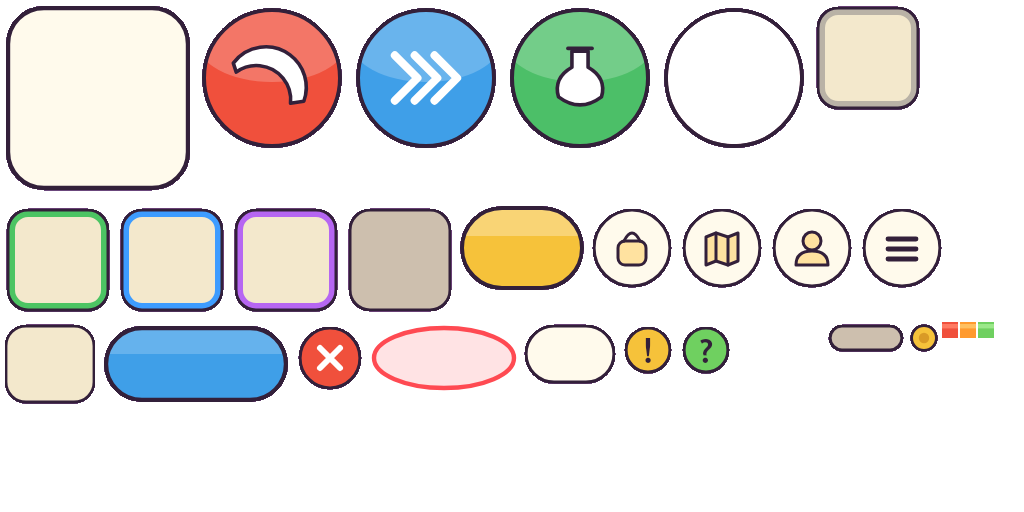
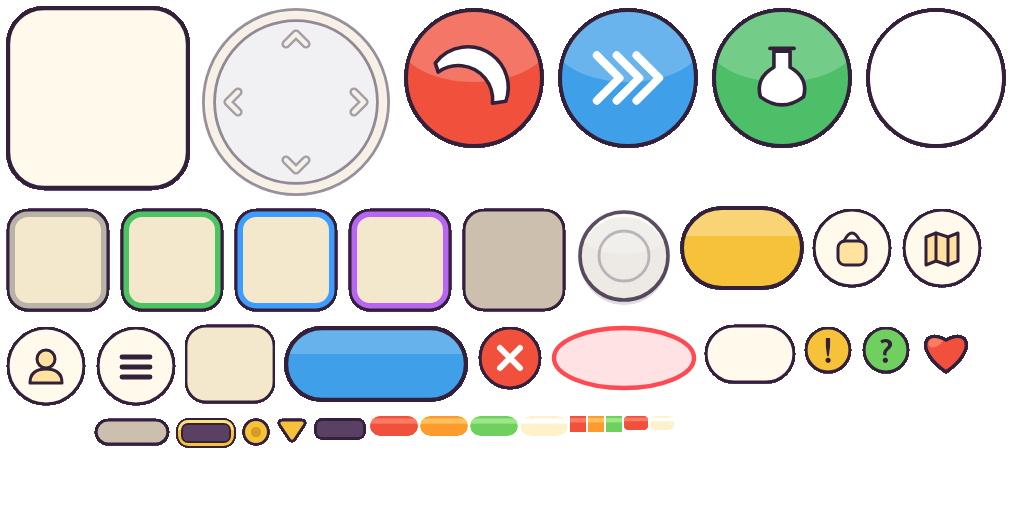
Art Director: a monster's bar, the stick, round fills and a heart (Leonard, AD)
Robin played chapter 1 (2026-11-20) and said, in Victor, GD's chat: "Health
etc on your hero and on mobs needs to be easier to see." "There should be a
moving stick." Victor, GD moved the pile to the middle at the bottom
(710cb4c) and asked for a bar over a monster's head and for the stick.

Looked at the real screen first (a test copy on this PC, a fresh game, not
Robin's save). The white stick and the gold edge on the monster's bar are all
but lost on sand; the flat fills show square corners outside my round wells
and cover the well's lower line (my first notes gave two heights); a blow's
number covers the bar.

Twelve new pieces in out/glass, 40 in all, the atlas still 1024 by 512:
- mob/well, mob/well-mine, mob/hp, mob/lost, mark/mine: a dark bar that reads
  on sand, grass, rock and sea; the one he fights with a gold rim between two
  dark lines, a fifth bigger, an arrow over it; a pale fill for what a blow
  just took.
- stick/ring, stick/knob: cream with the dark line, see-through.
- fill/hp, fill/rage, fill/xp, fill/lost: fills with round ends, as pills.
  The flat ones stay so nothing breaks.
- mark/heart: for the left end of his own health bar.

tools/scene.js draws the game's new layout (the pile at the bottom, the
Warrior 60 above the middle), and with --pile mine the pile as I would stack
it: his health the biggest thing with the heart on its end, the monster's bar
dark on its plate. The numbers are in out/glass/NOTES.md.
[…]

diff --git a/Art Director/tools/scene.js b/Art Director/tools/scene.js
@@ -1,45 +1,72 @@
 // scene.js: a judging picture drawn the way the game draws (Leonard, AD, 2026-11-20): a place's ground at double size, its
-// props and the figures sorted by where their feet stand, flat shadows, the glass on top at the game's own places
-// (the control test's hud.ts: bars top left, Cleave and Charge in their arc of radius 108 in the bottom right corner).
-// Everything comes from out/ as delivered, so if this picture is right the deliveries are right.
-//   node tools/scene.js <out.png> [--at 640,2040] [--zoom 1] [--no-glass]
+// props and the figures sorted by where their feet stand, flat shadows, the glass on top at the game's own places.
+// The glass is laid out as the game's hud.ts has it since Robin's first play (2026-11-20: "the buttons should be in the
+// middle at the bottom"; health "at the bottom"): level and money top left; bag, chart and hero top right; in the middle
+// at the bottom the pile: experience along the floor, Charge, Cleave and the potion in a row, rage and health over them,
+// who he fights over those. The Warrior stands 60 above the screen's middle. --pile mine draws the pile as Leonard, AD
+// would stack it. Everything comes from out/ as delivered, so if this picture is right the deliveries are right.
+//   node tools/scene.js <out.png> [--at 640,2040] [--no-glass] [--pile mine] [--stick 300,560] [--use "Open chest"] [--crop x,y,w,h,zoom]
 const P = require('./paint.js'); const D = require('./dress.js'); const fs = require('fs'); const path = require('path');
 const G = require('./glass.js');
 const W = P.JUDGE.w, H = P.JUDGE.h, FONT = 'Trebuchet MS';
 async function main() {
   const args = process.argv.slice(2), out = args[0], opt = k => { const i = args.indexOf('--' + k); return i >= 0 ? args[i + 1] : null; };
-  const at = (opt('at') || '640,2040').split(',').map(Number), S = 2, R = P.ROOT;
+  const at = (opt('at') || '640,2040').split(',').map(Number), S = 2, R = P.ROOT, mine = opt('pile') === 'mine';
   const place = JSON.parse(fs.readFileSync(path.join(R, 'out/island/place.json'), 'utf8')), ground = await P.loadImage(path.join(R, 'out/island/ground.png'));
   const A = await D.load(), isl = await D.atlas(path.join(R, 'out/island'), 'island'), crab = await D.atlas(path.join(R, 'out/sand-crab'), 'sand-crab'), glass = await D.atlas(path.join(R, 'out/glass'), 'glass');
   const loot = fs.existsSync(path.join(R, 'out/loot/loot.json')) ? await D.atlas(path.join(R, 'out/loot'), 'loot') : null;
   const cv = P.createCanvas(W * S, H * S), g = cv.getContext('2d'); g.scale(S, S); g.imageSmoothingEnabled = true; g.imageSmoothingQuality = 'high';
-  const cam = [at[0] - W / 2, at[1] - H / 2], sx = x => x - cam[0], sy = y => y - cam[1];
-  g.drawImage(ground, cam[0], cam[1], W, H, 0, 0, W, H);                                    // the ground: one pixel a unit, drawn at two
+  const cam = [at[0] - W / 2, at[1] - (H / 2 - 60)], sx = x => x - cam[0], sy = y => y - cam[1];
+  // the ground: one pixel a unit, drawn at two; below the place's foot the game draws out the picture's last row
+  const gh = Math.max(0, Math.min(H, ground.height - cam[1])); if (gh > 0) g.drawImage(ground, cam[0], cam[1], W, gh, 0, 0, W, gh); if (gh < H) g.drawImage(ground, cam[0], ground.height - 1, W, 1, 0, gh, W, H - gh);
   const shadow = (x, y, rx, ry) => { g.save(); g.globalAlpha = 0.24; g.fillStyle = '#5b4a82'; g.beginPath(); g.ellipse(sx(x) + rx * 0.2, sy(y) + 1, rx, ry, 0, 0, 7); g.fill(); g.restore(); };
   const sprite = (At, key, x, y) => { g.save(); g.translate(sx(x), sy(y)); g.scale(0.5, 0.5); D.pic(g, At, key); g.restore(); };
-  // who is where: the hero in the middle, a crab he has picked winding up, a second one idling
-  const hero = { x: at[0], y: at[1] }, c1 = { x: at[0] + 84, y: at[1] + 34 }, c2 = { x: at[0] - 96, y: at[1] + 96 }, drop = { x: at[0] + 70, y: at[1] - 70 }, coins = { x: at[0] - 30, y: at[1] + 150 };
+  // the glass's pieces: one as it is; a pill cut left and right, w long, k times its own height, its middle at y
+  const fr = key => glass.j.frames[key].frame, it = key => glass.j.items[key];
+  const piece = (key, x, y, k = 1) => { g.save(); g.translate(x, y); g.scale(0.5 * k, 0.5 * k); D.pic(g, glass, key); g.restore(); };
+  const pill = (key, x, y, w, k = 1) => { const f = fr(key), [l, , r] = it(key).slice, pw = Math.round(w / k * 2); if (pw < l + r) return; const t = P.createCanvas(pw, f.h), q = t.getContext('2d');   // put together at its own pixels, then drawn as one picture: no seams
+    q.drawImage(glass.im, f.x, f.y, l, f.h, 0, 0, l, f.h); q.drawImage(glass.im, f.x + l, f.y, f.w - l - r, f.h, l, 0, pw - l - r, f.h); q.drawImage(glass.im, f.x + f.w - r, f.y, r, f.h, pw - r, 0, r, f.h); g.drawImage(t, x, y - f.h / 4 * k, w, f.h / 2 * k); };
+  const txt = (t, x, y, s, c, o = {}) => P.label(g, t, x, y, s, c, { font: FONT, ...o });
+  const white = (t, x, y, s, o = {}) => txt(t, x, y, s, '#ffffff', { stroke: G.INK, strokeW: s > 13 ? 4 : 3, ...o });
+  // a bar of the glass: the well w long with its middle at y, a round-ended fill inside (and the pale part a blow just took)
+  const bar = (kind, x, y, w, part, k = 1, lost = 0) => { pill('bar/well', x, y, w, k); const full = w - 6 * k; if (lost > part) pill('fill/lost', x + 3 * k, y - k, full * lost, k); if (part > 0) pill('fill/' + kind, x + 3 * k, y - k, Math.max(10 * k, full * part), k); };
+  // the bar over a monster: w is the fill's whole length; the one he fights a fifth bigger, with the gold rim and the arrow
+  const mobBar = (x, y, w, part, lost, fought) => { const k = fought ? 1.2 : 1, key = fought ? 'mob/well-mine' : 'mob/well', inset = it(key).inset * k, full = w * k, x0 = x - full / 2; pill(key, x0 - inset, y, full + inset * 2, k); if (lost > part) pill('mob/lost', x0, y, full * lost, k); if (part > 0) pill('mob/hp', x0, y, Math.max(5 * k, full * part), k); if (fought) piece('mark/mine', x, y - 16); };
+  // who is where: the hero in the middle, a crab he fights winding up, a hurt one coming, a whole one idling
+  const hero = { x: at[0], y: at[1] }, c1 = { x: at[0] + 62, y: at[1] + 20, f: { action: 'attack1', facing: 'nw', i: 2 } }, c2 = { x: at[0] - 96, y: at[1] + 70, f: { action: 'move', facing: 'e', i: 1 } }, c3 = { x: at[0] + 120, y: at[1] - 150, f: { action: 'stand', facing: 's', i: 0 } }, drop = { x: at[0] + 70, y: at[1] - 70 }, coins = { x: at[0] - 30, y: at[1] + 150 };
   const things = [];
   for (const p of place.props) { const f = isl.j.frames[p.name]; if (!f) continue; if (sx(p.x) < -160 || sx(p.x) > W + 160 || sy(p.y) < -60 || sy(p.y) > H + 300) continue; things.push({ y: p.y, shadow: () => shadow(p.x, p.y, f.frame.w * 0.16, f.frame.w * 0.055), draw: () => sprite(isl, p.name, p.x, p.y) }); }
   things.push({ y: hero.y, shadow: () => shadow(hero.x, hero.y, 15, 6), draw: () => D.hero(g, A, { action: 'stand', facing: 'se', i: 0, cutlass: 'rusty', buckler: 'plank', hat: 'bandana' }, sx(hero.x), sy(hero.y), 0.5) });
-  things.push({ y: c1.y, shadow: () => shadow(c1.x, c1.y, 17, 7), draw: () => D.figure(g, crab, { action: 'attack1', facing: 'nw', i: 2 }, sx(c1.x), sy(c1.y), 0.5) });
-  things.push({ y: c2.y, shadow: () => shadow(c2.x, c2.y, 17, 7), draw: () => D.figure(g, crab, { action: 'stand', facing: 's', i: 0 }, sx(c2.x), sy(c2.y), 0.5) });
-  g.save(); g.translate(sx(c1.x), sy(c1.y) + 2); g.scale(0.5, 0.5); D.pic(g, glass, 'mark/target'); g.restore();        // the ring under the picked target
+  for (const c of [c1, c2, c3]) things.push({ y: c.y, shadow: () => shadow(c.x, c.y, 17, 7), draw: () => D.figure(g, crab, c.f, sx(c.x), sy(c.y), 0.5) });
+  piece('mark/target', sx(c1.x), sy(c1.y) + 2);                                                  // the ring under the one he fights
   if (loot) { for (const [key, q, rar] of [['gear', drop, 'rare'], ['coins', coins, null]]) { if (rar) { g.save(); g.translate(sx(q.x), sy(q.y)); g.scale(0.5, 0.5); D.pic(g, loot, 'ring/' + rar); g.restore(); } things.push({ y: q.y, shadow: () => shadow(q.x, q.y, 8, 3), draw: () => sprite(loot, key, q.x, q.y) }); } }
   things.sort((a, b) => a.y - b.y); for (const t of things) t.shadow(); for (const t of things) t.draw();
-  P.label(g, '14', sx(c1.x) + 4, sy(c1.y) - 44, 20, '#ffffff', { align: 'center', font: FONT, stroke: G.INK, strokeW: 4 });
+  // over the monsters: a bar on the one he fights and on any that is hurt, at one height for the kind (its standing picture's)
+  const o0 = D.frameOf(crab, 'stand', 's', 0).origin, top = (o0.y !== undefined ? o0.y : o0[1]) / 2;
+  mobBar(sx(c1.x), sy(c1.y) - top - 14, 44, 0.45, 0.62, true); mobBar(sx(c2.x), sy(c2.y) - top - 12, 44, 0.7, 0, false);
+  white('14', sx(c1.x) + 30, sy(c1.y) - top - 34, 20, { align: 'center' });                       // a blow's number rises beside the bar, not over it
   if (!args.includes('--no-glass')) {
-    const piece = (key, x, y) => { g.save(); g.translate(x, y); g.scale(0.5, 0.5); D.pic(g, glass, key); g.restore(); };
-    const slice = (key, x, y, w, h) => { const f = glass.j.frames[key].frame, it = glass.j.items[key], [l, t, r, b] = it.slice || [0, 0, 0, 0], k = 0.5, xs = [0, l, f.w - r, f.w], ys = [0, t, f.h - b, f.h], dx = [x, x + l * k, x + w - r * k, x + w], dy = [y, y + t * k, y + h - b * k, y + h]; for (let i = 0; i < 3; i++) for (let j = 0; j < 3; j++) { const sw = xs[i + 1] - xs[i], sh = ys[j + 1] - ys[j]; if (sw > 0 && sh > 0) g.drawImage(glass.im, f.x + xs[i], f.y + ys[j], sw, sh, dx[i], dy[j], dx[i + 1] - dx[i], dy[j + 1] - dy[j]); } };
-    const bar = (kind, x, y, w, part) => { slice('bar/well', x - 2, y - 2, w + 4, 18 * 0.5 * 2); const f = glass.j.frames['bar/' + kind].frame; g.save(); g.beginPath(); P.rr(g, x, y + 1, w, 10, 5); g.clip(); g.drawImage(glass.im, f.x, f.y, f.w, f.h, x, y + 1, w * part, 10); g.restore(); };
-    const txt = (t, x, y, s, c, o = {}) => P.label(g, t, x, y, s, c, { font: FONT, ...o });
-    piece('button/menu', 30, 30); bar('hp', 60, 12, 128, 0.72); bar('rage', 60, 30, 128, 0.45); txt('Lv 2', 62, 54, 12, '#ffffff', { stroke: G.INK, strokeW: 3.5 }); piece('mark/coin', 110, 54); txt('86', 121, 54.5, 12, '#ffffff', { stroke: G.INK, strokeW: 3.5 });
-    piece('button/bag', 296, 32); piece('button/chart', 340, 32); piece('button/hero', 384, 32);
-    slice('plate', W / 2 - 78, 100, 156, 34); txt('Sand Crab', W / 2 - 62, 111, 12.5, G.INK); txt('Lv 1', W / 2 + 62, 111, 11, '#8a6a7a', { align: 'right' }); bar('hp', W / 2 - 62, 118, 124, 0.56);
-    piece('skill/cleave', W - 108 * Math.cos(22 * Math.PI / 180), H - 24 - 108 * Math.sin(22 * Math.PI / 180)); piece('skill/charge', W - 108 * Math.cos(66 * Math.PI / 180), H - 24 - 108 * Math.sin(66 * Math.PI / 180)); piece('skill/potion', 236, 872);
-    bar('xp', 14, 893, 150, 0.38);
-    slice('plate', 12, 74, 132, 28); piece('mark/quest', 27, 89); txt('Sand crabs 7/30', 44, 88, 11, G.INK);
+    // the top: the menu, his level and money; bag, chart and hero
+    piece('button/menu', 30, 30); white('Lv 2', 62, 30, 16); piece('mark/coin', 122, 30); white('86', 134, 30, 16);
+    piece('button/bag', 286, 30); piece('button/chart', 334, 30); piece('button/hero', 382, 30);
+    // the pile in the middle at the bottom
+    const ROW_Y = H - 64, BAR_W = 200, BAR_X = (W - BAR_W) / 2, XP_Y = H - 14, RAGE_Y = ROW_Y - 54, HP_Y = RAGE_Y - 20, PLATE_Y = HP_Y - 38, USE_Y = PLATE_Y - 50;
+    const discs = () => { for (const [key, dx, r] of [['charge', -84, 36], ['cleave', 0, 36], ['potion', 78, 28]]) { const x = W / 2 + dx, y = ROW_Y + (36 - r); piece('skill/' + key, x, y, r * 2 / 76); if (key === 'potion') white('3', x + r * 0.55, y + r * 0.6, 13, { align: 'center' }); } };
+    if (!mine) {   // as the game stacks it (Victor, GD, 710cb4c), with the round fills
+      bar('xp', BAR_X, XP_Y, BAR_W, 0.38); discs(); bar('rage', BAR_X, RAGE_Y, BAR_W, 0.45); bar('hp', BAR_X, HP_Y, BAR_W, 0.87); white('87 / 100', W / 2, HP_Y, 12, { align: 'center' });
+      pill('plate', BAR_X, PLATE_Y, BAR_W); txt('Sand crab', W / 2 - 84, PLATE_Y - 5, 14, G.INK); txt('Lv 1', W / 2 + 84, PLATE_Y - 5, 12, '#7a6a80', { align: 'right' }); bar('hp', W / 2 - 88, PLATE_Y + 14, 176, 0.45, 1, 0.62);
+    } else {       // mine: his health the biggest thing with a heart on its end; the monster's bar dark, as over its head
+      bar('xp', BAR_X, XP_Y, BAR_W, 0.38, 0.72); discs();
+      bar('rage', BAR_X + 16, RAGE_Y + 3, BAR_W - 16, 0.45, 0.8); bar('hp', BAR_X, HP_Y - 2, BAR_W, 0.87, 1.3); piece('mark/heart', BAR_X + 3, HP_Y - 3, 1); white('87 / 100', W / 2 + 6, HP_Y - 3.5, 14, { align: 'center' });
+      pill('plate', BAR_X, PLATE_Y - 6, BAR_W); txt('Sand crab', W / 2 - 84, PLATE_Y - 11, 14, G.INK); txt('Lv 1', W / 2 + 84, PLATE_Y - 11, 12, '#7a6a80', { align: 'right' });
+      { const k = 1.2, key = 'mob/well-mine', inset = it(key).inset * k, full = 172, x0 = W / 2 - full / 2, y = PLATE_Y + 9; pill(key, x0 - inset, y, full + inset * 2, k); pill('mob/lost', x0, y, full * 0.62, k); pill('mob/hp', x0, y, full * 0.45, k); }
+    }
+    const use = opt('use'); if (use) { pill('button/context', W / 2 - 78, USE_Y - (mine ? 6 : 0), 156); txt(use, W / 2, USE_Y - 3 - (mine ? 6 : 0), 17, G.INK, { align: 'center' }); }
+    const stick = opt('stick'); if (stick) { const [x, y] = stick.split(',').map(Number), a = -0.6; piece('stick/ring', x, y); piece('stick/knob', x + Math.cos(a) * 30, y + Math.sin(a) * 30); }
   }
-  P.save(cv, out); console.log('wrote', out);
+  const crop = opt('crop');
+  if (crop) { const [x, y, w, h, z] = crop.split(',').map(Number), c2v = P.createCanvas(w * z, h * z), g2 = c2v.getContext('2d'); g2.imageSmoothingEnabled = true; g2.imageSmoothingQuality = 'high'; g2.drawImage(cv, x * S, y * S, w * S, h * S, 0, 0, w * z, h * z); P.save(c2v, out); }
+  else P.save(cv, out);
+  console.log('wrote', out);
 }
 main();

diff --git a/Art Director/tools/glass.js b/Art Director/tools/glass.js
@@ -4,7 +4,7 @@
 // how in its data: slice [left, top, right, bottom] in file pixels (nine-slice), or fill: true (stretch it whole).
 //   node tools/glass.js        then  node tools/packset.js glass work/glass/render out/glass
 const P = require('./paint.js'); const fs = require('fs'); const path = require('path');
-const INK = '#33203a', CREAM = '#fffaec', CREAM2 = '#f3e8cc', WELL = '#cdbfae', SH = 'rgba(51,32,58,0.30)';
+const INK = '#33203a', CREAM = '#fffaec', CREAM2 = '#f3e8cc', WELL = '#cdbfae', PLUM = '#5a4062', SH = 'rgba(51,32,58,0.30)';
 const RARITY = { common: '#b9b2a6', uncommon: '#4cc463', rare: '#3d9cff', epic: '#b666f2' };
 const COL = { hp: '#f0503c', hpHi: '#ff7a62', rage: '#ff9a2e', rageHi: '#ffc060', xp: '#6fd060', xpHi: '#9be88a', cleave: '#f0503c', charge: '#3f9fe8', potion: '#4cbf68', gold: '#f6c23a' };
 const S = 2, OUT = path.join(P.ROOT, 'work/glass/render'), items = [];
@@ -26,8 +26,8 @@ const ICON = {
 function build() {
   fs.mkdirSync(OUT, { recursive: true });
   // bars: a well that stretches, and three fills that stretch whole
-  piece('bar/well', 40, 18, (g) => { panel(g, rr(2, 2, 36, 12, 6), WELL); }, { slice: [16, 0, 16, 0], inner: [6, 6, 6, 6], note: 'the fill goes inside, 2 design units in from each side, 8 tall' });
-  for (const k of ['hp', 'rage', 'xp']) piece('bar/' + k, 8, 8, (g) => { g.fillStyle = COL[k]; g.fillRect(0, 0, 8, 8); g.fillStyle = COL[k + 'Hi']; g.fillRect(0, 1, 8, 2.2); }, { fill: true });
+  piece('bar/well', 40, 18, (g) => { panel(g, rr(2, 2, 36, 12, 6), WELL); }, { slice: [16, 0, 16, 0], note: 'a fill/hp, fill/rage or fill/xp pill goes inside: see its own note' });
+  for (const k of ['hp', 'rage', 'xp']) piece('bar/' + k, 8, 8, (g) => { g.fillStyle = COL[k]; g.fillRect(0, 0, 8, 8); g.fillStyle = COL[k + 'Hi']; g.fillRect(0, 1, 8, 2.2); }, { fill: true, note: 'the first, flat fill: its square corners show outside the round well; fill/* takes its place' });
   // the skill discs: 68 across (the game's size), each its own colour and sign
   for (const [k, sc] of [['cleave', 1.1], ['charge', 1.0], ['potion', 0.95]]) piece('skill/' + k, 76, 78, (g) => {
     panel(g, disc(38, 38, 34), COL[k], { lw: 2, shadow: 3, hi: gg => { gg.fillStyle = 'rgba(255,255,255,0.22)'; gg.beginPath(); gg.ellipse(38, 19, 38, 21, 0, 0, 7); gg.fill(); } });
@@ -50,6 +50,26 @@ function build() {
   for (const [k, ch] of [['quest', '!'], ['done', '?']]) piece('mark/' + k, 28, 34, (g) => { panel(g, disc(14, 14, 11), k === 'quest' ? COL.gold : '#6fd060', { lw: 1.6 }); P.label(g, ch, 14, 14.5, 17, INK, { align: 'center', font: 'Trebuchet MS' }); });
   piece('mark/target', 76, 36, (g) => { g.beginPath(); g.ellipse(38, 18, 35, 15, 0, 0, 7); g.fillStyle = 'rgba(255,74,82,0.16)'; g.fill(); g.lineWidth = 2.2; g.strokeStyle = '#ff4a52'; g.stroke(); }, { soft: true, note: 'under the picked target, at its feet' });
   piece('mark/tap', 44, 24, (g) => { g.beginPath(); g.ellipse(22, 12, 19, 9, 0, 0, 7); g.lineWidth = 2.2; g.strokeStyle = '#ffffff'; g.stroke(); }, { soft: true, note: 'where a tap landed' });
+  // Over a monster's head (Robin, 2026-11-20: health "on mobs needs to be easier to see"): a dark well, so it reads on sand,
+  // grass and rock alike, with the same red inside. The one he fights has a gold rim between two dark lines (gold alone is
+  // lost on sand) and an arrow over it. The pale fill is what a blow just took: it lags and then shrinks.
+  piece('mob/well', 28, 13, (g) => { rr(1, 1, 26, 11, 4.2)(g); g.fillStyle = INK; g.fill(); rr(2.5, 2.5, 23, 8, 2.2)(g); g.fillStyle = PLUM; g.fill(); }, { slice: [12, 0, 12, 0], inset: 3, fill: 7, note: 'the fill goes inside, 3 design units in from each side, 7 tall' });
+  piece('mob/well-mine', 32, 17, (g) => { rr(1, 1, 30, 15, 6.2)(g); g.fillStyle = INK; g.fill(); rr(2, 2, 28, 13, 5.2)(g); g.fillStyle = COL.gold; g.fill(); g.save(); g.beginPath(); g.rect(0, 0, 32, 7); g.clip(); rr(2, 2, 28, 13, 5.2)(g); g.fillStyle = '#ffe07a'; g.fill(); g.restore(); rr(3.5, 3.5, 25, 10, 3.6)(g); g.fillStyle = INK; g.fill(); rr(4.5, 4.5, 23, 8, 2.2)(g); g.fillStyle = PLUM; g.fill(); }, { slice: [16, 0, 16, 0], inset: 5, fill: 7, note: 'the well of the one he fights: the fill goes 5 design units in from each side, 7 tall; draw this whole bar a fifth bigger than the others' });
+  // Fills with round ends (Leonard, AD, 2026-11-20: the flat fills showed square corners outside the round wells on the real
+  // screen). A fill is a pill cut left and right: make it as long as the bar's part, its ends stay round. `fill/*` fit
+  // `bar/well`, `mob/*` fit the two wells over a monster. The pale one is what a blow just took: it lags and then shrinks.
+  const FILL = { hp: [COL.hp, COL.hpHi], rage: [COL.rage, COL.rageHi], xp: [COL.xp, COL.xpHi], lost: ['#fff1c9', '#ffffff'] };
+  const fillPill = (w, h, r, [col, hi]) => (g) => { rr(0, 0, w, h, r)(g); g.fillStyle = col; g.fill(); g.save(); rr(0, 0, w, h, r)(g); g.clip(); g.fillStyle = hi; g.fillRect(0, h * 0.12, w, h * 0.26); g.restore(); };
+  for (const k of ['hp', 'rage', 'xp', 'lost']) piece('fill/' + k, 24, 10, fillPill(24, 10, 5, FILL[k]), { slice: [10, 0, 10, 0], x: 3, y: -1, note: 'inside bar/well: its left end 3 design units in from the well\'s, its middle 1 unit above the well\'s middle (the well has a shadow under it); as long as the part, the whole is the well\'s length less 6; hide it at nothing' });
+  for (const k of ['hp', 'lost']) piece('mob/' + k, 12, 7, fillPill(12, 7, 2, FILL[k]), { slice: [5, 0, 5, 0], note: 'inside mob/well (3 units in from each end) or mob/well-mine (5 in), on the well\'s middle' });
+  piece('mark/mine', 18, 16, (g) => { const tri = gg => { gg.beginPath(); gg.moveTo(4, 3.5); gg.lineTo(14, 3.5); gg.lineTo(9, 11); gg.closePath(); }; g.lineJoin = 'round'; g.save(); g.translate(0, 1.6); tri(g); g.lineWidth = 3.4; g.strokeStyle = SH; g.stroke(); g.restore(); tri(g); g.lineWidth = 4.6; g.strokeStyle = INK; g.stroke(); tri(g); g.lineWidth = 1.6; g.strokeStyle = COL.gold; g.stroke(); g.fillStyle = COL.gold; g.fill(); }, { note: 'an arrow over the bar of the one he fights; let it bob 2 units, once a second' });
+  // A heart for the left end of his own health bar, so his bar is never taken for the monster's.
+  piece('mark/heart', 30, 30, (g) => { const heart = gg => { gg.beginPath(); gg.moveTo(15, 25); gg.bezierCurveTo(-1, 14, 4, 2.5, 15, 9); gg.bezierCurveTo(26, 2.5, 31, 14, 15, 25); gg.closePath(); }; panel(g, heart, COL.hp, { lw: 1.8, shadow: 2, hi: gg => { gg.fillStyle = COL.hpHi; gg.beginPath(); gg.ellipse(10, 9.5, 4.2, 2.6, -0.6, 0, 7); gg.fill(); } }); });
+  // The stick (Robin, 2026-11-20: "a moving stick"): a ring where the thumb came down and a knob under the thumb. Cream with
+  // the dark line, see-through: the ring's inside is all but clear, so a crab under it is still seen.
+  piece('stick/ring', 100, 100, (g) => { const c = 50; g.beginPath(); g.arc(c, c, 44, 0, 7); g.fillStyle = 'rgba(51,32,58,0.07)'; g.fill(); g.beginPath(); g.arc(c, c, 43.5, 0, 7); g.lineWidth = 7; g.strokeStyle = 'rgba(51,32,58,0.5)'; g.stroke(); g.beginPath(); g.arc(c, c, 43.5, 0, 7); g.lineWidth = 4.2; g.strokeStyle = 'rgba(255,250,236,0.92)'; g.stroke();
+    for (let k = 0; k < 4; k++) { g.save(); g.translate(c, c); g.rotate(k * Math.PI / 2); const v = () => { g.beginPath(); g.moveTo(-5, -29); g.lineTo(0, -34); g.lineTo(5, -29); }; v(); g.lineWidth = 4.6; g.strokeStyle = 'rgba(51,32,58,0.4)'; g.stroke(); v(); g.lineWidth = 2.2; g.strokeStyle = 'rgba(255,250,236,0.9)'; g.stroke(); g.restore(); } }, { soft: true, radius: 46, note: 'where the thumb came down; its see-through is in the picture, draw it at full strength' });
+  piece('stick/knob', 52, 52, (g) => { disc(26, 28.5, 22)(g); g.fillStyle = 'rgba(51,32,58,0.16)'; g.fill(); disc(26, 26, 22)(g); g.fillStyle = 'rgba(255,250,236,0.46)'; g.fill(); g.save(); disc(26, 26, 22)(g); g.clip(); g.fillStyle = 'rgba(255,255,255,0.22)'; g.beginPath(); g.ellipse(26, 13, 24, 12, 0, 0, 7); g.fill(); g.restore(); disc(26, 26, 22)(g); g.lineWidth = 1.8; g.strokeStyle = 'rgba(51,32,58,0.8)'; g.stroke(); g.beginPath(); g.arc(26, 26, 12.5, 0, 7); g.lineWidth = 1.4; g.strokeStyle = 'rgba(51,32,58,0.28)'; g.stroke(); }, { soft: true, radius: 22, note: 'under the thumb' });
   fs.writeFileSync(path.join(OUT, 'meta.json'), JSON.stringify({ px: S, items, rarity: RARITY, colours: COL, ink: INK, cream: CREAM }, null, 1)); console.log('drew', items.length, 'pieces of glass');
 }
 if (require.main === module) build();

diff --git a/Art Director/out/glass/NOTES.md b/Art Director/out/glass/NOTES.md
@@ -1,44 +1,97 @@
 # glass  (Leonard, AD, 2026-11-20)
 
-**What it is:** the glass over the game, as pieces: cream panels with the figures' dark line and a small hard shadow,
-round buttons, strong flat colour only where a thumb goes. Laid out as Robin picked it (2026-11-20): skills in an arc in
-the bottom corner; bag, chart and character as small buttons at the top.
+**What it is:** the glass over the game, as pieces: cream panels with the figures' dark line, round buttons, strong flat
+colour only where a thumb goes. 40 pieces in one atlas.
 
-**The numbers:** `glass.png` 1024 by 512, 66 KB, 28 pieces at two pixels a unit. Sizes in design units:
+**What changed and why:** Robin played chapter 1 (2026-11-20) and said: "Health etc on your hero and on mobs needs to be
+easier to see." "There should be a moving stick." Victor, GD moved the pile to the middle at the bottom and asked for a
+bar over a monster's head and for the stick. Twelve new pieces; the 28 earlier ones are as they were. All of it is mine.
+
+- **A monster's bar:** a dark well (`mob/well`), so it reads on sand, grass, rock and sea alike, with the same red
+  inside (`mob/hp`). The one he fights has a gold rim between two dark lines (`mob/well-mine`; gold alone is lost on
+  sand, as the gold edge in the game is now) and an arrow over it (`mark/mine`). A pale fill (`mob/lost`) shows what a
+  blow just took.
+- **The stick:** `stick/ring` and `stick/knob`, cream with the dark line, see-through. The white ring in the game now is
+  all but lost on sand.
+- **Fills with round ends** (`fill/hp`, `fill/rage`, `fill/xp`, `fill/lost`): on the real screen the flat fills showed
+  square corners outside my round wells and covered the well's lower line. That was my data: the first notes gave two
+  different heights. The flat ones (`bar/hp`, `bar/rage`, `bar/xp`) stay in the atlas so nothing breaks.
+- **A heart** (`mark/heart`) for the left end of his own health bar, so his bar is never taken for the monster's.
+
+**The numbers:** `glass.png` 1024 by 512 as before, 100 KB (was 67), 2 MB decoded, two pixels a unit. Sizes in design
+units; in `glass.json` each piece's `w` and `h` are file pixels, and its origin is its middle.
 
 | Piece | Size | How it stretches |
 | --- | --- | --- |
-| `bar/well` | 40 by 18 | `slice` left and right 16 file px; the fill sits 2 units in, 10 tall |
-| `bar/hp`, `bar/rage`, `bar/xp` | 8 by 8 | stretch whole (`fill`), cropped to the bar's part |
+| `bar/well` | 40 by 18 | a pill: `slice` left and right 16 file px |
+| `fill/hp`, `fill/rage`, `fill/xp`, `fill/lost` | 24 by 10 | a pill: `slice` 10 file px. Inside `bar/well` |
+| `mob/well` | 28 by 13 | a pill: `slice` 12 file px |
+| `mob/well-mine` | 32 by 17 | a pill: `slice` 16 file px |
+| `mob/hp`, `mob/lost` | 12 by 7 | a pill: `slice` 5 file px. Inside the two wells above |
+| `mark/mine` | 18 by 16 | none: the arrow over the bar of the one he fights |
+| `mark/heart` | 30 by 30 | none |
+| `stick/ring` | 100 by 100, the ring's radius 46 | none; its see-through is in the picture |
+| `stick/knob` | 52 by 52, radius 22 | none; its see-through is in the picture |
 | `skill/cleave`, `skill/charge`, `skill/potion`, `skill/empty` | a disc of 68 in 76 by 78 | none; draw the cooldown wedge and the number over it |
 | `button/bag`, `button/chart`, `button/hero`, `button/menu` | a disc of 38 in 44 by 46 | none |
 | `button/close` | 36 by 38 | none |
-| `button/context` | 64 by 48 | `slice` 44 left and right: for "Open", "Shop", "Sail", dark words 18 bold |
-| `plate` | 48 by 34 | `slice` 32 left and right: the target's name and bar, a quest line |
+| `button/context` | 64 by 48 | a pill: `slice` 44: "Open", "Shop", "Sail", dark words 18 bold |
+| `plate` | 48 by 34 | a pill: `slice` 32: the target's name, a quest line |
 | `row` | 48 by 44 | `slice` 24 all round |
 | `panel` | 96 by 100 | `slice` 44, 44, 44, 52 (left, top, right, bottom, file px) |
-| `panel/title` | 96 by 44 | `slice` 44 left and right; white words 18 bold; it sits on the panel's top edge |
+| `panel/title` | 96 by 44 | a pill: `slice` 44; white words 18 bold; it sits on the panel's top edge |
 | `slot/common` ... `slot/epic`, `slot/empty` | 56 by 58 | none; an icon of 48 in its middle |
 | `mark/coin`, `mark/quest` (!), `mark/done` (?) | 16, 28 | none |
 | `mark/target`, `mark/tap` | 76 by 36, 44 by 24 | none; under the picked target, and where a tap landed |
+| `bar/hp`, `bar/rage`, `bar/xp` | 8 by 8 | the first, flat fills; `fill/*` takes their place |
 
-Each piece's `slice`, `fill` and `note` are in `glass.json` under `items`. Origins are the middles.
+**How the game uses it:** copy the folder. `tools\scene.js` draws all of this from the folder and is the reference.
 
-**The colours:** line `#33203a`, cream `#fffaec` and `#f3e8cc`, wells `#cdbfae`; health `#f0503c`, rage `#ff9a2e`,
-experience `#6fd060`; Cleave `#f0503c`, Charge `#3f9fe8`, potion `#4cbf68`; gold `#f6c23a`. Words on the field (a hit's
-number, the level) are white with the dark line round them, 4 units thick.
+- **A fill is a pill, made as long as the bar's part** (a nine-slice whose width is set, not a picture scaled): its ends
+  stay round. Hide it at nothing; while there is any, not shorter than its two ends (10 units for `fill/*`, 5 for
+  `mob/*`).
+- **His own bars:** the fill's left end is 3 units in from the well's left edge, as now. Its middle is **1 unit above
+  the well's middle** (the well's picture has room for a shadow under it), and it is **10 tall**, not 12. Whole, it is
+  the well's length less 6.
+- **Over a monster:** for a fill `w` long (44 or more), `mob/well` is `w + 6` long and the fill starts 3 in, on the
+  well's middle. For the one he fights: `mob/well-mine` is `w + 10` long, the fill starts 5 in, and the whole bar is
+  drawn **a fifth bigger** (well and fill alike). `mark/mine` sits 16 above that bar's middle; let it bob 2 units, once
+  a second, if you like.
+- **`mob/lost` and `fill/lost`** go under the red, as long as the health was before the blow, and shrink to the red a
+  moment later (I would hold 200 ms, then shrink over 300; how it feels is Robin's).
+- **The stick:** `stick/ring` where the thumb came down, `stick/knob` under the thumb, both at full strength (no alpha
+  on top: it is in the pictures). Their middles are their origins.
+- **The heart:** its middle 3 units in from the left end of his health bar and 1 above the bar's middle.
+
+**Three things seen on the real screen (Victor, GD's to take or leave):**
+1. The bar over a monster rides on the top of the picture now shown, so it jumps as the crab moves its claws. One
+   height for each kind is steadier: I use the top of its first `stand` frame, and put the bar's middle 12 above it
+   (14 for the one he fights). The raised claw then passes behind the bar for a moment.
+2. A blow's number starts on top of the bar and hides it. Beside the bar, or starting above it, both stay readable.
+3. The pile has two red bars of nearly the same length, one over the other: his and the monster's. Mine instead, in
+   `look-bars.jpg` and `look-screen.jpg` (the middles, of 412 by 915): experience 200 long at y 901, drawn at 0.72 of
+   its size; the discs as they are; rage 184 long from x 122, y 800, at 0.8 of its size; his health 200 long at y 775,
+   at 1.3 of its size, the heart on its left end, the numbers 14 bold; the plate at y 733 with the monster's bar on its
+   foot as `mob/well-mine` (the fill 172 long, a fifth bigger, y 748): the dark bar is the monster's, on the plate as
+   over its head. The button for the thing he stands by at y 683.
+
+**The colours:** line `#33203a`, cream `#fffaec` and `#f3e8cc`, wells `#cdbfae`, the monster's well `#5a4062`; health
+`#f0503c`, rage `#ff9a2e`, experience `#6fd060`, what a blow took `#fff1c9`; Cleave `#f0503c`, Charge `#3f9fe8`, potion
+`#4cbf68`; gold `#f6c23a`. Words on the field (a hit's number, the level) are white with the dark line round them.
 
 **The font:** the pictures use Trebuchet MS bold as a stand-in. I would pick a round, heavy face to go with the look
 (Fredoka or Baloo 2, both free under the Open Font Licence). That is a file to add to the game and to tell Robin about,
 so I have not fetched one.
 
-**How the game uses it:** copy the folder. The places are yours (`hud.ts`); `tools\scene.js` draws them as the control
-test has them, with the top right taken by bag, chart and hero.
+**Open:** the whole design is for Robin to judge. The small hard shadow the tool draws under each piece is cut away by
+the packer's hard edge, so the game has shown the glass without it since the first drop; it comes back with one flag
+(`--soft`) if it is wanted. The potion's disc is green while the health it fills is red.
 
-**Open:** the whole design is for Robin to judge. The potion disc's place (left of Cleave) is a guess.
-
-**Not tested:** not in the game; nothing pressed.
+**Not tested:** the new pieces are not in the game. `look-bars.jpg` has the real screen on the left (a test copy of the
+game on this PC, a fresh game, not Robin's save) and `tools\scene.js` on the right. Nothing pressed; the stick not felt
+under a thumb; the bars not seen moving.
 
 **Origin and licence:** drawn here by `tools\glass.js`. Nothing from outside.
 
-**Where to see it:** `look.jpg`; `out\scene\beach.png`.
+**Where to see it:** `look-bars.jpg` (now and new, side by side), `look-screen.jpg` (the whole screen), `look-grounds.jpg`
+(the bars and the stick on sand, grass, rock and sea), `look.jpg` (every piece).

diff --git a/Art Director/docs/inventory.md b/Art Director/docs/inventory.md
@@ -24,7 +24,7 @@ which drop is the game's `docs\state\art.md`). **None of it has been seen by Rob
 | 5 | Loot on the ground and the rarity effect in four colours | in the game: `out\loot\` |
 | 6 | The chest: closed, opening, open | in the game: in `out\island\` as `chest/...` |
 | 7 | The harbour's kit: ground, houses, a stall, the shopkeeper, townsfolk | in the game: `out\harbour\` |
-| 8 | The glass | in the game: `out\glass\` (a first set; more pieces as the game asks) |
+| 8 | The glass | in the game: `out\glass\` (the first 28 pieces). Twelve more since Robin's first play (a monster's bar, the stick, fills with round ends, a heart): built, with Victor, GD |
 | 9 | The sea chart | in the game: `out\chart\` (one chart, mine, where the rule is three) |
 | 10 | The icon, 192 and 512 | in the game: `out\icon\` |
 
@@ -37,7 +37,10 @@ which drop is the game's `docs\state\art.md`). **None of it has been seen by Rob
 | A sea that moves | both | frames for a foam line that breathes, or a shimmer |
 | The stall cut into a back and a front | Victor, GD | he draws the shopkeeper over the stall for now, as in `look.jpg` |
 | 60 more units south of the harbour's square | Victor, GD | the lower half of the dock lies under the skill buttons on a 412 by 915 screen; for when the town is redone. Then he runs `tools\place-from-art.mjs` again |
-| Plain shapes still in the game | Victor, GD | the slam's disc, the stun's star, a monster's health bar, the cooldown wedge, the stick's ring, the banners |
+| Plain shapes still in the game | Victor, GD | the slam's disc, the stun's star, the cooldown wedge, the banners. A monster's health bar and the stick are made now (`mob/...`, `stick/...` in `out\glass\`) |
+| The pile at the bottom, my way | Leonard, AD | his health the biggest thing with a heart on its end, the monster's bar dark on its plate; the numbers in `out\glass\NOTES.md`, the picture `look-bars.jpg`. Victor, GD's to take, Robin's to judge |
+| The small shadow under each piece of glass | Leonard, AD | the tool draws it, the packer's hard edge cuts it away, so the game has never shown it; back with `--soft` if wanted |
+| The potion's colour | Leonard, AD | its disc is green, the health it fills is red |
 | The camera | Robin's to judge | it stays at 1; a quarter closer is one number in the game and a re-render at 2.5 pixels a unit here |
 
 ## Assets
@@ -52,7 +55,7 @@ which drop is the game's `docs\state\art.md`). **None of it has been seen by Rob
 | Coconut crab | `out\coconut-crab\` | level 5, 66 frames, three facings | in the game; design mine | three facings only, to save memory |
 | The island | `out\island\` | the ground as one picture (1 px a unit), 23 props, the chest, `place.json` | in the game; layout mine | the grass is plain between props; the sea does not move |
 | Loot | `out\loot\` | coins, a bundle, a potion; a ring for each of four rarities; a spark | in the game; colours mine | |
-| The glass | `out\glass\` | 28 pieces: bars, skill discs, top buttons, plates, panel, rows, slots, marks | in the game; design mine | no font chosen; more pieces as screens are built |
+| The glass | `out\glass\` | 40 pieces: bars and their fills, a monster's bar, the stick, skill discs, top buttons, plates, panel, rows, slots, marks | 28 in the game, 12 built on 2026-11-20; design mine | no font chosen; more pieces as screens are built |
 
 ## Not assets, but kept
 

diff --git a/Art Director/docs/log.md b/Art Director/docs/log.md
@@ -16,3 +16,4 @@ when they matter), what was made and where (`out\<name>\`, the tool), what is wa
 - 2026-11-20: Victor, GD drew the hero, the gear and the sand crab in the real game from out/ and wrote that it looked good in the real scene; his notes on how a drop comes in are in the game's docs/state/art.md. His three points, answered: move is played by time (215 units a second would blur feet matched to the ground), so the Warrior's move is now a run, 8 frames at 45 ms, a lean, long steps, the arms pumping; the atlases are palette PNGs (hero 260 KB, sand crab 141 KB), so 300 KB an atlas is an honest budget for this look; tools/pack.js writes loose frames only with --frames, never into a delivery. Leonard, AD.
 - 2026-11-20: Victor, GD: all of wave 1 is in the game and pushed (22ab703, 5785c55, fa7b6dd): the Warrior with his gear, the three monsters, the island, the loot, the glass, the harbour with its four people, the sea chart with pins, ring and route, and the icon. His tools/place-from-art.mjs reads the studio's place.json into the rules' ground (tell him when a layout moves and he runs it again). His calls (his): the camera stays at 1 until Robin judges it on his phone; move by time; the shopkeeper drawn over his stall; the chart's places are the game's harbour and crab-cay, named by the game (Marlow's Landing, Crab Cay). Open, in docs/inventory.md: a coat on the body, a task's mark over a person, a sea that moves, the stall in two pieces, more room south of the harbour's square, the plain shapes still in the game. Nothing has been seen by Robin; the look and the chart are each one piece where the rule is three, and Victor, GD says so in his report to Robin. Leonard, AD.
 - 2026-11-20: Victor, GD: the Warrior's run is in the game (5e4c7a3); he compared every file of the game's art with out/ by hash and only the hero differed. From now on a re-render of a piece that is already in the game needs one line to him with the folder's name. Leonard, AD.
+- 2026-11-20: Robin played chapter 1 and said, in Victor, GD's chat: "I think the buttons should be in the middle at the bottom." "There should be a moving stick so you can choose to move with the stick or click where to go (both available at the same time)." "Health etc on your hero and on mobs needs to be easier to see. Its all the way at top now making it hard to glance over. Maybe it should be at the bottom." Victor, GD moved the pile (710cb4c) and asked for a bar over a monster's head and for the stick. Looked at the real screen first (a test copy on this PC at 127.0.0.1, a fresh game, not Robin's save): the white stick and the gold edge are all but lost on sand, the flat fills show square corners outside the round wells, a blow's number covers the bar. Twelve new pieces in out/glass (40 in all, the atlas still 1024 by 512): mob/well, mob/well-mine, mob/hp, mob/lost, mark/mine, stick/ring, stick/knob, fill/hp, fill/rage, fill/xp, fill/lost, mark/heart. tools/scene.js draws the game's new layout, and with --pile mine the pile as I would stack it. All mine; nothing judged by Robin. Leonard, AD.

diff --git a/Art Director/out/README.md b/Art Director/out/README.md
@@ -35,7 +35,7 @@ a NOTES.md. Nothing here has been judged by Robin: **every look and design is mi
 | `coconut-crab` | 1024 by 2048 | 8 MB | 202 KB |
 | `island` | ground 1400 by 2400, props 1024 by 1024 | 13.4 + 4 MB | 67 + 52 KB |
 | `loot` | 256 by 256 | 0.3 MB | 18 KB |
-| `glass` | 1024 by 512 | 2 MB | 66 KB |
+| `glass` | 1024 by 512 | 2 MB | 100 KB |
 | `harbour` | ground 900 by 1100, props 1024 by 1024, people 1024 by 512 | 4 + 4 + 2 MB | 41 + 32 + 72 KB |
 | `chart` | the chart 824 by 1830, pins 256 by 256 | 6 + 0.3 MB | about 100 + 20 KB |
 | `icon` | 512 and 192 | | about 150 KB |
